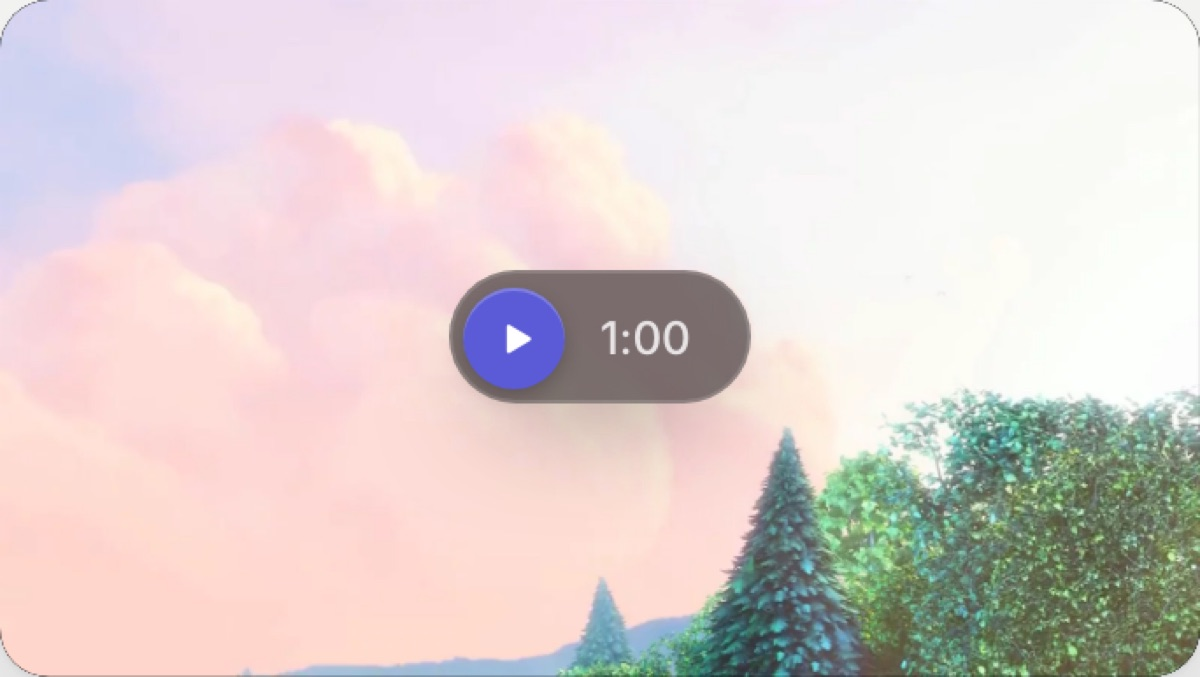
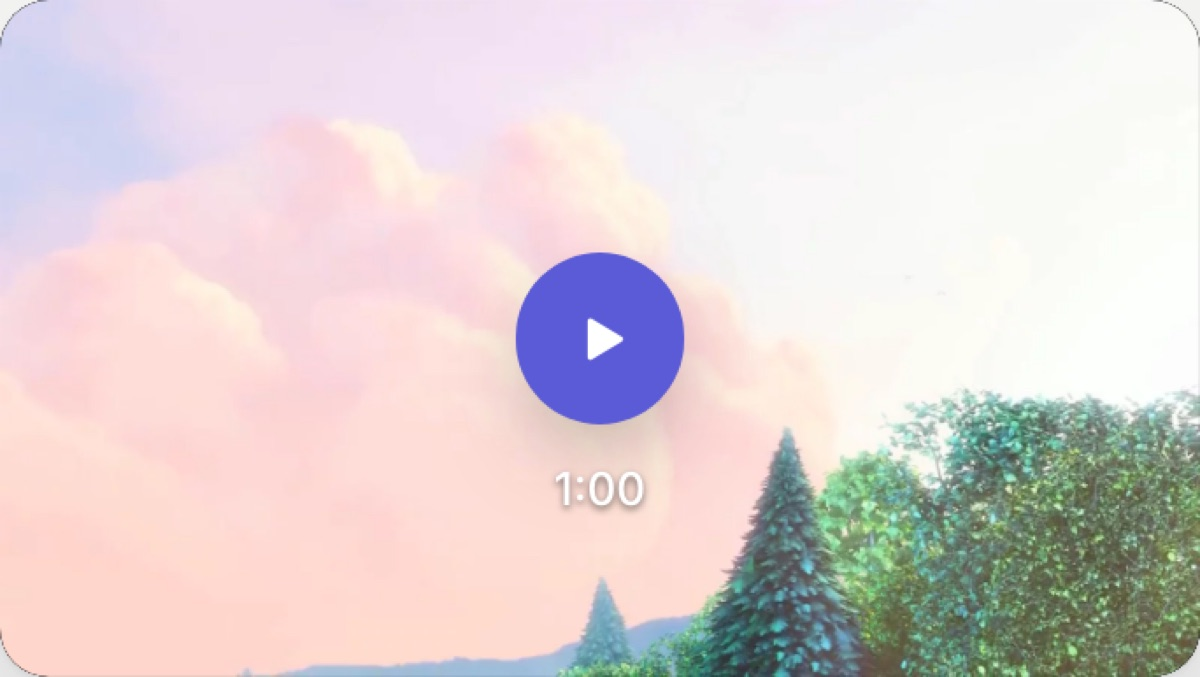
Publish player-chrome-recede-2026-10 (20261005T091925Z)

Changed region(s): [[0.37, 0.3722, 0.6475, 0.6514], [0.0308, 0.9926, 0.4933, 1.0], [0.4625, 0.6824, 0.555, 0.7755]]

diff --git a/player-chrome-recede-2026-10/index.html b/player-chrome-recede-2026-10/index.html
@@ -8,8 +8,8 @@
 <ul>
 <li>Every center button now sits exactly on the frame center, measured at 0.0px on desktop and phone. The hidden loading spinner had been pushing them 22px low.</li>
 <li>Play triangles are centered in their circles. They had drifted 8 to 22px left.</li>
-<li>Center buttons and the Hairline pill scale with the player in three steps, so phones get smaller controls. On a phone the Hairline pill drops to disc plus length, 90px wide instead of 158.</li>
-<li>Hairline’s pre-play is now a frosted pill with the brand color only in the play disc. White label text at readable contrast, even on the bright sky.</li>
+<li>Center buttons and the Hairline pill scale with the player in three steps, so phones get smaller controls.</li>
+<li>Hairline’s pre-play is simplified to a single brand-colored play circle with the length beneath it. No pill, no label.</li>
 <li>Paused is a single white glyph with a soft shadow in every version, instead of a tinted disc on the speaker’s face.</li>
 <li>The frosted glass no longer picks up skin tone or turns olive. Saturation is down, tint is up.</li>
 <li>The left and right edges of each control row line up. Speed text and icon strokes share one weight. Hairline’s progress line clears the rounded corners.</li>
@@ -27,5 +27,5 @@
 <tr><td>Touch and phones</td><td>44px targets on touch. Under 640px wide, mute and elapsed time drop out rather than squeezing the buttons. The paused play button lifts clear of the bar.</td></tr>
 <tr><td>Accessibility</td><td>White 2px focus ring with a dark halo that survives bright video. Keyboard shortcuts kept (Space/K, J/L, M, F). Reduced motion turns off every transition.</td></tr>
 </table>
-<section><h2>1 · Hairline</h2><p>Recommended. A frosted pre-play pill with the brand color in the play disc and the length beside it. While playing, the only thing on screen is a thin brand line along the bottom edge. On hover a soft, eased scrim rises behind the controls only. The full frame is never dimmed.</p><a class="try" href="prototype.html?v=hairline">Try it live</a><div class="g"><figure><img loading="lazy" src="shots/hairline-talk-desk-1-poster.jpg" alt="1 · Hairline, Before play, talk video"><figcaption>Before play</figcaption></figure><figure><img loading="lazy" src="shots/hairline-talk-desk-2-paused.jpg" alt="1 · Hairline, Paused, talk video"><figcaption>Paused</figcaption></figure><figure><img loading="lazy" src="shots/hairline-talk-desk-3-idle.jpg" alt="1 · Hairline, Playing, chrome hidden, talk video"><figcaption>Playing, chrome hidden</figcaption></figure><figure><img loading="lazy" src="shots/hairline-talk-desk-4-scrub.jpg" alt="1 · Hairline, Hovering the scrubber, talk video"><figcaption>Hovering the scrubber</figcaption></figure><figure><img loading="lazy" src="shots/hairline-bright-desk-1-poster.jpg" alt="1 · Hairline, Before play, bright video"><figcaption>Before play</figcaption></figure><figure><img loading="lazy" src="shots/hairline-bright-desk-2-paused.jpg" alt="1 · Hairline, Paused, bright video"><figcaption>Paused</figcaption></figure><figure><img loading="lazy" src="shots/hairline-bright-desk-3-idle.jpg" alt="1 · Hairline, Playing, chrome hidden, bright video"><figcaption>Playing, chrome hidden</figcaption></figure><figure><img loading="lazy" src="shots/hairline-bright-desk-4-scrub.jpg" alt="1 · Hairline, Hovering the scrubber, bright video"><figcaption>Hovering the scrubber</figcaption></figure></div><div class="g"><figure><img loading="lazy" src="shots/hairline-talk-phone-1-poster.jpg" alt="1 · Hairline on a phone, Before play"><figcaption>Phone · before play</figcaption></figure><figure><img loading="lazy" src="shots/hairline-talk-phone-2-paused.jpg" alt="1 · Hairline on a phone, Paused"><figcaption>Phone · paused</figcaption></figure><figure><img loading="lazy" src="shots/hairline-bright-phone-1-poster.jpg" alt="1 · Hairline on a phone, Before play"><figcaption>Phone · before play</figcaption></figure><figure><img loading="lazy" src="shots/hairline-bright-phone-2-paused.jpg" alt="1 · Hairline on a phone, Paused"><figcaption>Phone · paused</figcaption></figure></div></section><section><h2>2 · Bare</h2><p>The furthest recession. Nothing behind the controls: white glyphs and type with a layered soft shadow. Beautiful on the talking head. On the bright video the duration under the play button and the scrubber over sky stop being legible, which is the line it crosses.</p><a class="try" href="prototype.html?v=bare">Try it live</a><div class="g"><figure><img loading="lazy" src="shots/bare-talk-desk-1-poster.jpg" alt="2 · Bare, Before play, talk video"><figcaption>Before play</figcaption></figure><figure><img loading="lazy" src="shots/bare-talk-desk-2-paused.jpg" alt="2 · Bare, Paused, talk video"><figcaption>Paused</figcaption></figure><figure><img loading="lazy" src="shots/bare-talk-desk-3-idle.jpg" alt="2 · Bare, Playing, chrome hidden, talk video"><figcaption>Playing, chrome hidden</figcaption></figure><figure><img loading="lazy" src="shots/bare-talk-desk-4-scrub.jpg" alt="2 · Bare, Hovering the scrubber, talk video"><figcaption>Hovering the scrubber</figcaption></figure><figure><img loading="lazy" src="shots/bare-bright-desk-1-poster.jpg" alt="2 · Bare, Before play, bright video"><figcaption>Before play</figcaption></figure><figure><img loading="lazy" src="shots/bare-bright-desk-2-paused.jpg" alt="2 · Bare, Paused, bright video"><figcaption>Paused</figcaption></figure><figure><img loading="lazy" src="shots/bare-bright-desk-3-idle.jpg" alt="2 · Bare, Playing, chrome hidden, bright video"><figcaption>Playing, chrome hidden</figcaption></figure><figure><img loading="lazy" src="shots/bare-bright-desk-4-scrub.jpg" alt="2 · Bare, Hovering the scrubber, bright video"><figcaption>Hovering the scrubber</figcaption></figure></div><div class="g"><figure><img loading="lazy" src="shots/bare-talk-phone-1-poster.jpg" alt="2 · Bare on a phone, Before play"><figcaption>Phone · before play</figcaption></figure><figure><img loading="lazy" src="shots/bare-talk-phone-2-paused.jpg" alt="2 · Bare on a phone, Paused"><figcaption>Phone · paused</figcaption></figure><figure><img loading="lazy" src="shots/bare-bright-phone-1-poster.jpg" alt="2 · Bare on a phone, Before play"><figcaption>Phone · before play</figcaption></figure><figure><img loading="lazy" src="shots/bare-bright-phone-2-paused.jpg" alt="2 · Bare on a phone, Paused"><figcaption>Phone · paused</figcaption></figure></div></section><section><h2>3 · Capsule</h2><p>QuickTime on macOS. One frosted capsule floats centered and leaves the rest of the frame untouched. The glass is now neutral rather than tinted by the video.</p><a class="try" href="prototype.html?v=capsule">Try it live</a><div class="g"><figure><img loading="lazy" src="shots/capsule-talk-desk-1-poster.jpg" alt="3 · Capsule, Before play, talk video"><figcaption>Before play</figcaption></figure><figure><img loading="lazy" src="shots/capsule-talk-desk-2-paused.jpg" alt="3 · Capsule, Paused, talk video"><figcaption>Paused</figcaption></figure><figure><img loading="lazy" src="shots/capsule-talk-desk-3-idle.jpg" alt="3 · Capsule, Playing, chrome hidden, talk video"><figcaption>Playing, chrome hidden</figcaption></figure><figure><img loading="lazy" src="shots/capsule-talk-desk-4-scrub.jpg" alt="3 · Capsule, Hovering the scrubber, talk video"><figcaption>Hovering the scrubber</figcaption></figure><figure><img loading="lazy" src="shots/capsule-bright-desk-1-poster.jpg" alt="3 · Capsule, Before play, bright video"><figcaption>Before play</figcaption></figure><figure><img loading="lazy" src="shots/capsule-bright-desk-2-paused.jpg" alt="3 · Capsule, Paused, bright video"><figcaption>Paused</figcaption></figure><figure><img loading="lazy" src="shots/capsule-bright-desk-3-idle.jpg" alt="3 · Capsule, Playing, chrome hidden, bright video"><figcaption>Playing, chrome hidden</figcaption></figure><figure><img loading="lazy" src="shots/capsule-bright-desk-4-scrub.jpg" alt="3 · Capsule, Hovering the scrubber, bright video"><figcaption>Hovering the scrubber</figcaption></figure></div><div class="g"><figure><img loading="lazy" src="shots/capsule-talk-phone-1-poster.jpg" alt="3 · Capsule on a phone, Before play"><figcaption>Phone · before play</figcaption></figure><figure><img loading="lazy" src="shots/capsule-talk-phone-2-paused.jpg" alt="3 · Capsule on a phone, Paused"><figcaption>Phone · paused</figcaption></figure><figure><img loading="lazy" src="shots/capsule-bright-phone-1-poster.jpg" alt="3 · Capsule on a phone, Before play"><figcaption>Phone · before play</figcaption></figure><figure><img loading="lazy" src="shots/capsule-bright-phone-2-paused.jpg" alt="3 · Capsule on a phone, Paused"><figcaption>Phone · paused</figcaption></figure></div></section><section><h2>Current</h2><p>Mux default theme with today’s production CSS, same videos, for reference.</p><a class="try" href="prototype.html?v=current">Try it live</a><div class="g"><figure><img loading="lazy" src="shots/current-talk-desk-1-poster.jpg" alt="Current, Before play, talk video"><figcaption>Before play</figcaption></figure><figure><img loading="lazy" src="shots/current-talk-desk-2-paused.jpg" alt="Current, Paused, talk video"><figcaption>Paused</figcaption></figure><figure><img loading="lazy" src="shots/current-talk-desk-3-idle.jpg" alt="Current, Playing, chrome hidden, talk video"><figcaption>Playing, chrome hidden</figcaption></figure><figure><img loading="lazy" src="shots/current-talk-desk-4-scrub.jpg" alt="Current, Hovering the scrubber, talk video"><figcaption>Hovering the scrubber</figcaption></figure><figure><img loading="lazy" src="shots/current-bright-desk-1-poster.jpg" alt="Current, Before play, bright video"><figcaption>Before play</figcaption></figure><figure><img loading="lazy" src="shots/current-bright-desk-2-paused.jpg" alt="Current, Paused, bright video"><figcaption>Paused</figcaption></figure><figure><img loading="lazy" src="shots/current-bright-desk-3-idle.jpg" alt="Current, Playing, chrome hidden, bright video"><figcaption>Playing, chrome hidden</figcaption></figure><figure><img loading="lazy" src="shots/current-bright-desk-4-scrub.jpg" alt="Current, Hovering the scrubber, bright video"><figcaption>Hovering the scrubber</figcaption></figure></div><div class="g"><figure><img loading="lazy" src="shots/current-talk-phone-1-poster.jpg" alt="Current on a phone, Before play"><figcaption>Phone · before play</figcaption></figure><figure><img loading="lazy" src="shots/current-talk-phone-2-paused.jpg" alt="Current on a phone, Paused"><figcaption>Phone · paused</figcaption></figure><figure><img loading="lazy" src="shots/current-bright-phone-1-poster.jpg" alt="Current on a phone, Before play"><figcaption>Phone · before play</figcaption></figure><figure><img loading="lazy" src="shots/current-bright-phone-2-paused.jpg" alt="Current on a phone, Paused"><figcaption>Phone · paused</figcaption></figure></div></section>
+<section><h2>1 · Hairline</h2><p>Recommended. Before play, one brand-colored play circle with the length in small type beneath it. While playing, the only thing on screen is a thin brand line along the bottom edge. On hover a soft, eased scrim rises behind the controls only. The full frame is never dimmed.</p><a class="try" href="prototype.html?v=hairline">Try it live</a><div class="g"><figure><img loading="lazy" src="shots/hairline-talk-desk-1-poster.jpg" alt="1 · Hairline, Before play, talk video"><figcaption>Before play</figcaption></figure><figure><img loading="lazy" src="shots/hairline-talk-desk-2-paused.jpg" alt="1 · Hairline, Paused, talk video"><figcaption>Paused</figcaption></figure><figure><img loading="lazy" src="shots/hairline-talk-desk-3-idle.jpg" alt="1 · Hairline, Playing, chrome hidden, talk video"><figcaption>Playing, chrome hidden</figcaption></figure><figure><img loading="lazy" src="shots/hairline-talk-desk-4-scrub.jpg" alt="1 · Hairline, Hovering the scrubber, talk video"><figcaption>Hovering the scrubber</figcaption></figure><figure><img loading="lazy" src="shots/hairline-bright-desk-1-poster.jpg" alt="1 · Hairline, Before play, bright video"><figcaption>Before play</figcaption></figure><figure><img loading="lazy" src="shots/hairline-bright-desk-2-paused.jpg" alt="1 · Hairline, Paused, bright video"><figcaption>Paused</figcaption></figure><figure><img loading="lazy" src="shots/hairline-bright-desk-3-idle.jpg" alt="1 · Hairline, Playing, chrome hidden, bright video"><figcaption>Playing, chrome hidden</figcaption></figure><figure><img loading="lazy" src="shots/hairline-bright-desk-4-scrub.jpg" alt="1 · Hairline, Hovering the scrubber, bright video"><figcaption>Hovering the scrubber</figcaption></figure></div><div class="g"><figure><img loading="lazy" src="shots/hairline-talk-phone-1-poster.jpg" alt="1 · Hairline on a phone, Before play"><figcaption>Phone · before play</figcaption></figure><figure><img loading="lazy" src="shots/hairline-talk-phone-2-paused.jpg" alt="1 · Hairline on a phone, Paused"><figcaption>Phone · paused</figcaption></figure><figure><img loading="lazy" src="shots/hairline-bright-phone-1-poster.jpg" alt="1 · Hairline on a phone, Before play"><figcaption>Phone · before play</figcaption></figure><figure><img loading="lazy" src="shots/hairline-bright-phone-2-paused.jpg" alt="1 · Hairline on a phone, Paused"><figcaption>Phone · paused</figcaption></figure></div></section><section><h2>2 · Bare</h2><p>The furthest recession. Nothing behind the controls: white glyphs and type with a layered soft shadow. Beautiful on the talking head. On the bright video the duration under the play button and the scrubber over sky stop being legible, which is the line it crosses.</p><a class="try" href="prototype.html?v=bare">Try it live</a><div class="g"><figure><img loading="lazy" src="shots/bare-talk-desk-1-poster.jpg" alt="2 · Bare, Before play, talk video"><figcaption>Before play</figcaption></figure><figure><img loading="lazy" src="shots/bare-talk-desk-2-paused.jpg" alt="2 · Bare, Paused, talk video"><figcaption>Paused</figcaption></figure><figure><img loading="lazy" src="shots/bare-talk-desk-3-idle.jpg" alt="2 · Bare, Playing, chrome hidden, talk video"><figcaption>Playing, chrome hidden</figcaption></figure><figure><img loading="lazy" src="shots/bare-talk-desk-4-scrub.jpg" alt="2 · Bare, Hovering the scrubber, talk video"><figcaption>Hovering the scrubber</figcaption></figure><figure><img loading="lazy" src="shots/bare-bright-desk-1-poster.jpg" alt="2 · Bare, Before play, bright video"><figcaption>Before play</figcaption></figure><figure><img loading="lazy" src="shots/bare-bright-desk-2-paused.jpg" alt="2 · Bare, Paused, bright video"><figcaption>Paused</figcaption></figure><figure><img loading="lazy" src="shots/bare-bright-desk-3-idle.jpg" alt="2 · Bare, Playing, chrome hidden, bright video"><figcaption>Playing, chrome hidden</figcaption></figure><figure><img loading="lazy" src="shots/bare-bright-desk-4-scrub.jpg" alt="2 · Bare, Hovering the scrubber, bright video"><figcaption>Hovering the scrubber</figcaption></figure></div><div class="g"><figure><img loading="lazy" src="shots/bare-talk-phone-1-poster.jpg" alt="2 · Bare on a phone, Before play"><figcaption>Phone · before play</figcaption></figure><figure><img loading="lazy" src="shots/bare-talk-phone-2-paused.jpg" alt="2 · Bare on a phone, Paused"><figcaption>Phone · paused</figcaption></figure><figure><img loading="lazy" src="shots/bare-bright-phone-1-poster.jpg" alt="2 · Bare on a phone, Before play"><figcaption>Phone · before play</figcaption></figure><figure><img loading="lazy" src="shots/bare-bright-phone-2-paused.jpg" alt="2 · Bare on a phone, Paused"><figcaption>Phone · paused</figcaption></figure></div></section><section><h2>3 · Capsule</h2><p>QuickTime on macOS. One frosted capsule floats centered and leaves the rest of the frame untouched. The glass is now neutral rather than tinted by the video.</p><a class="try" href="prototype.html?v=capsule">Try it live</a><div class="g"><figure><img loading="lazy" src="shots/capsule-talk-desk-1-poster.jpg" alt="3 · Capsule, Before play, talk video"><figcaption>Before play</figcaption></figure><figure><img loading="lazy" src="shots/capsule-talk-desk-2-paused.jpg" alt="3 · Capsule, Paused, talk video"><figcaption>Paused</figcaption></figure><figure><img loading="lazy" src="shots/capsule-talk-desk-3-idle.jpg" alt="3 · Capsule, Playing, chrome hidden, talk video"><figcaption>Playing, chrome hidden</figcaption></figure><figure><img loading="lazy" src="shots/capsule-talk-desk-4-scrub.jpg" alt="3 · Capsule, Hovering the scrubber, talk video"><figcaption>Hovering the scrubber</figcaption></figure><figure><img loading="lazy" src="shots/capsule-bright-desk-1-poster.jpg" alt="3 · Capsule, Before play, bright video"><figcaption>Before play</figcaption></figure><figure><img loading="lazy" src="shots/capsule-bright-desk-2-paused.jpg" alt="3 · Capsule, Paused, bright video"><figcaption>Paused</figcaption></figure><figure><img loading="lazy" src="shots/capsule-bright-desk-3-idle.jpg" alt="3 · Capsule, Playing, chrome hidden, bright video"><figcaption>Playing, chrome hidden</figcaption></figure><figure><img loading="lazy" src="shots/capsule-bright-desk-4-scrub.jpg" alt="3 · Capsule, Hovering the scrubber, bright video"><figcaption>Hovering the scrubber</figcaption></figure></div><div class="g"><figure><img loading="lazy" src="shots/capsule-talk-phone-1-poster.jpg" alt="3 · Capsule on a phone, Before play"><figcaption>Phone · before play</figcaption></figure><figure><img loading="lazy" src="shots/capsule-talk-phone-2-paused.jpg" alt="3 · Capsule on a phone, Paused"><figcaption>Phone · paused</figcaption></figure><figure><img loading="lazy" src="shots/capsule-bright-phone-1-poster.jpg" alt="3 · Capsule on a phone, Before play"><figcaption>Phone · before play</figcaption></figure><figure><img loading="lazy" src="shots/capsule-bright-phone-2-paused.jpg" alt="3 · Capsule on a phone, Paused"><figcaption>Phone · paused</figcaption></figure></div></section><section><h2>Current</h2><p>Mux default theme with today’s production CSS, same videos, for reference.</p><a class="try" href="prototype.html?v=current">Try it live</a><div class="g"><figure><img loading="lazy" src="shots/current-talk-desk-1-poster.jpg" alt="Current, Before play, talk video"><figcaption>Before play</figcaption></figure><figure><img loading="lazy" src="shots/current-talk-desk-2-paused.jpg" alt="Current, Paused, talk video"><figcaption>Paused</figcaption></figure><figure><img loading="lazy" src="shots/current-talk-desk-3-idle.jpg" alt="Current, Playing, chrome hidden, talk video"><figcaption>Playing, chrome hidden</figcaption></figure><figure><img loading="lazy" src="shots/current-talk-desk-4-scrub.jpg" alt="Current, Hovering the scrubber, talk video"><figcaption>Hovering the scrubber</figcaption></figure><figure><img loading="lazy" src="shots/current-bright-desk-1-poster.jpg" alt="Current, Before play, bright video"><figcaption>Before play</figcaption></figure><figure><img loading="lazy" src="shots/current-bright-desk-2-paused.jpg" alt="Current, Paused, bright video"><figcaption>Paused</figcaption></figure><figure><img loading="lazy" src="shots/current-bright-desk-3-idle.jpg" alt="Current, Playing, chrome hidden, bright video"><figcaption>Playing, chrome hidden</figcaption></figure><figure><img loading="lazy" src="shots/current-bright-desk-4-scrub.jpg" alt="Current, Hovering the scrubber, bright video"><figcaption>Hovering the scrubber</figcaption></figure></div><div class="g"><figure><img loading="lazy" src="shots/current-talk-phone-1-poster.jpg" alt="Current on a phone, Before play"><figcaption>Phone · before play</figcaption></figure><figure><img loading="lazy" src="shots/current-talk-phone-2-paused.jpg" alt="Current on a phone, Paused"><figcaption>Phone · paused</figcaption></figure><figure><img loading="lazy" src="shots/current-bright-phone-1-poster.jpg" alt="Current on a phone, Before play"><figcaption>Phone · before play</figcaption></figure><figure><img loading="lazy" src="shots/current-bright-phone-2-paused.jpg" alt="Current on a phone, Paused"><figcaption>Phone · paused</figcaption></figure></div></section>
 </main></body></html>

diff --git a/player-chrome-recede-2026-10/prototype.html b/player-chrome-recede-2026-10/prototype.html
@@ -89,9 +89,9 @@ const BASE = `
   media-controller[mediaended] .glyph svg + svg { display: block; }
   .stack { display: grid; place-items: center; color: #fff; }
   .stack > * { grid-area: 1 / 1; }
-  media-controller { --center: 64px; --pill-h: 52px; --pill-fs: 15px; }
-  media-controller:not([breakpointmd]) { --center: 52px; --pill-h: 44px; --pill-fs: 14px; }
-  media-controller:not([breakpointsm]) { --center: 44px; --pill-h: 38px; --pill-fs: 13px; }
+  media-controller { --center: 64px; }
+  media-controller:not([breakpointmd]) { --center: 52px; }
+  media-controller:not([breakpointsm]) { --center: 44px; }
   media-loading-indicator { --media-loading-indicator-icon-height: 44px; --media-loading-icon-color: rgba(255,255,255,.9); }
   .prePlay { transition: opacity .25s ease, transform .25s cubic-bezier(.2,.8,.2,1); }
   media-controller[mediahasplayed] .prePlay { opacity: 0; transform: scale(.94); pointer-events: none; }
@@ -122,28 +122,16 @@ const VERSIONS = {
   },
   hairline: {
     label: '1 · Hairline',
-    note: 'Before play there is one frosted pill: a brand-colored play disc, the word Play, and the length. On phones it shrinks to disc and length. While playing, the chrome leaves entirely except a 2px brand line along the bottom edge, so the viewer always knows how far in they are. On hover, a soft eased scrim rises only behind the controls.',
+    note: 'Before play there is one brand-colored play circle with the length in small type beneath it. While playing, the chrome leaves entirely except a 2px brand line along the bottom edge, so the viewer always knows how far in they are. On hover, a soft eased scrim rises only behind the controls.',
     tpl: shell(`
-      .pill { display: grid; }
-      .pill > * { grid-area: 1 / 1; }
-      .prePlay { place-self: stretch; height: auto; padding: 0; border-radius: 999px; background: rgba(12,12,16,.55);
-        backdrop-filter: blur(18px) saturate(1.1); -webkit-backdrop-filter: blur(18px) saturate(1.1);
-        box-shadow: inset 0 0 0 1px rgba(255,255,255,.14), 0 12px 32px -12px rgba(0,0,0,.55); }
-      .prePlay:hover { background: rgba(12,12,16,.64); }
-      .prePlay .glyph { visibility: hidden; }
-      .prePlayLabel { position: relative; z-index: 2; display: flex; align-items: center; gap: calc(var(--pill-h) * .22);
-        height: var(--pill-h); padding: 0 calc(var(--pill-h) * .46) 0 calc(var(--pill-h) * .12); pointer-events: none;
-        font-size: var(--pill-fs); font-weight: 600; letter-spacing: -.005em; line-height: 1; }
-      .disc { display: grid; place-items: center; width: calc(var(--pill-h) * .76); height: calc(var(--pill-h) * .76); border-radius: 999px;
-        background: var(--media-accent-color); box-shadow: inset 0 1px 0 rgba(255,255,255,.22), 0 2px 8px -2px rgba(0,0,0,.4);
-        transition: transform .2s cubic-bezier(.2,.8,.2,1); }
-      .prePlay:hover + .prePlayLabel .disc { transform: scale(1.06); }
-      .disc svg { width: 46%; height: 46%; }
-      .prePlayLabel .sep { width: 3px; height: 3px; border-radius: 999px; background: rgba(255,255,255,.45); }
-      .prePlayLabel media-duration-display { padding: 0; font-size: var(--pill-fs); font-weight: 500; color: rgba(255,255,255,.82); --media-text-color: rgba(255,255,255,.82); --media-text-content-height: 1em; }
-      media-controller[mediahasplayed] .pill { display: none; }
-      media-controller:not([breakpointsm]) .prePlayLabel > span:not(.disc) { display: none; }
-      media-controller:not([breakpointsm]) .prePlayLabel { gap: calc(var(--pill-h) * .26); }
+      .pre { position: relative; display: grid; place-items: center; transition: opacity .25s ease; }
+      media-controller[mediahasplayed] .pre { opacity: 0; pointer-events: none; }
+      .prePlay { width: calc(var(--center) * 1.1); height: calc(var(--center) * 1.1); padding: 0; border-radius: 999px;
+        background: var(--media-accent-color); box-shadow: 0 10px 28px -10px rgba(0,0,0,.55); }
+      .prePlay:hover { transform: scale(1.04); }
+      .prePlay svg { width: calc(var(--center) * .44); height: calc(var(--center) * .44); }
+      .prePlayMeta { position: absolute; top: calc(100% + 10px); font-size: 13px; font-weight: 500; white-space: nowrap; text-shadow: 0 1px 2px rgba(0,0,0,.55); }
+      .prePlayMeta media-duration-display { padding: 0; --media-text-content-height: 16px; }
       media-controller:not([mediahasplayed]) .scrim { opacity: 0; }
       .scrim { position: absolute; inset: auto 0 0 0; height: clamp(96px, 34%, 190px); pointer-events: none;
         background: linear-gradient(to top, rgba(0,0,0,.56) 0%, rgba(0,0,0,.49) 12%, rgba(0,0,0,.4) 25%, rgba(0,0,0,.3) 38%, rgba(0,0,0,.2) 52%, rgba(0,0,0,.11) 67%, rgba(0,0,0,.05) 82%, transparent 100%); }
@@ -159,9 +147,9 @@ const VERSIONS = {
       media-controller[userinactive]:not([mediapaused]) .ambient { opacity: .9; }
     `, `
       ${stack(`
-        <div class="pill">
+        <div class="pre">
           ${centerBtn('prePlay')}
-          <span class="prePlayLabel"><span class="disc">${svg('play')}</span><span>Play</span><span class="sep"></span><media-duration-display></media-duration-display></span>
+          <span class="prePlayMeta"><media-duration-display></media-duration-display></span>
         </div>
         ${centerBtn('resume')}`)}
       <div class="scrim"></div>

diff --git a/index.html b/index.html
@@ -1,6 +1,7 @@
 <!doctype html><meta charset="utf-8"><title>Clarity design previews</title>
 <style>body{font-family:system-ui,sans-serif;max-width:40rem;margin:4rem auto;padding:0 1rem;color:#0f172a}a{color:#2563eb}li{margin:.4rem 0}</style>
 <h1>Clarity design previews</h1>
+<li><a href="./player-chrome-recede-2026-10/">Player chrome that recedes: three implementations</a> <small>20261005T091925Z</small></li>
 <li><a href="./player-chrome-recede-2026-10/">Player chrome that recedes: three implementations</a> <small>20261005T090449Z</small></li>
 <li><a href="./auto-title-trim-pr-1007/">Auto-title and auto-trim, PR #1007 preview</a> <small>20261004T093609Z</small></li>
 <li><a href="./auto-title-trim-pr-1007/">Auto-title and auto-trim, PR #1007 preview</a> <small>20261004T092955Z</small></li>
